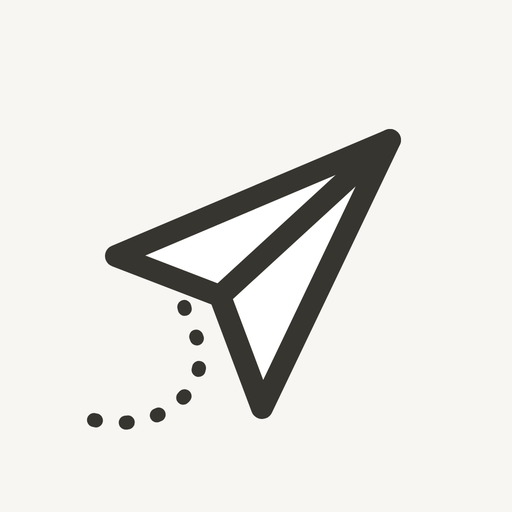
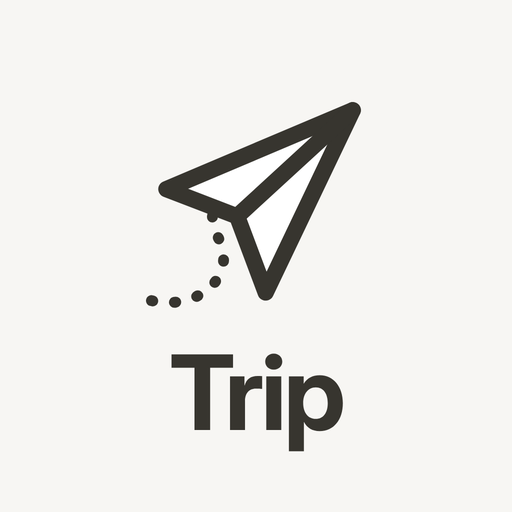
v14.2: アイコンに「Trip」の文字を入れる
Claude-Session: https://claude.ai/code/session_01YWAXfeJuB4FYGXzAeEAgqX

Changed region(s): [[0.1562, 0.1875, 0.7812, 0.9062]]

diff --git a/index.html b/index.html
@@ -8,8 +8,8 @@
 <meta name="apple-mobile-web-app-title" content="家族旅行">
 <meta name="apple-mobile-web-app-status-bar-style" content="default">
 <meta name="theme-color" content="#ffffff">
-<link rel="apple-touch-icon" href="icon.png?v=2">
-<link rel="icon" href="icon.png?v=2">
+<link rel="apple-touch-icon" href="icon.png?v=3">
+<link rel="icon" href="icon.png?v=3">
 <link rel="manifest" href="manifest.json">
 <title>家族旅行ノート</title>
 <style>
@@ -205,7 +205,7 @@ try { db = initializeFirestore(fbApp, { localCache: persistentLocalCache({ tabMa
 catch (e) { db = getFirestore(fbApp); }
 
 /* ================= 共通 ================= */
-const VERSION = 'v14.1';
+const VERSION = 'v14.2';
 const $ = s => document.querySelector(s);
 const esc = s => String(s ?? '').replace(/[&<>"']/g, c => ({'&':'&amp;','<':'&lt;','>':'&gt;','"':'&quot;',"'":'&#39;'}[c]));
 const WD = ['日','月','火','水','木','金','土'];
